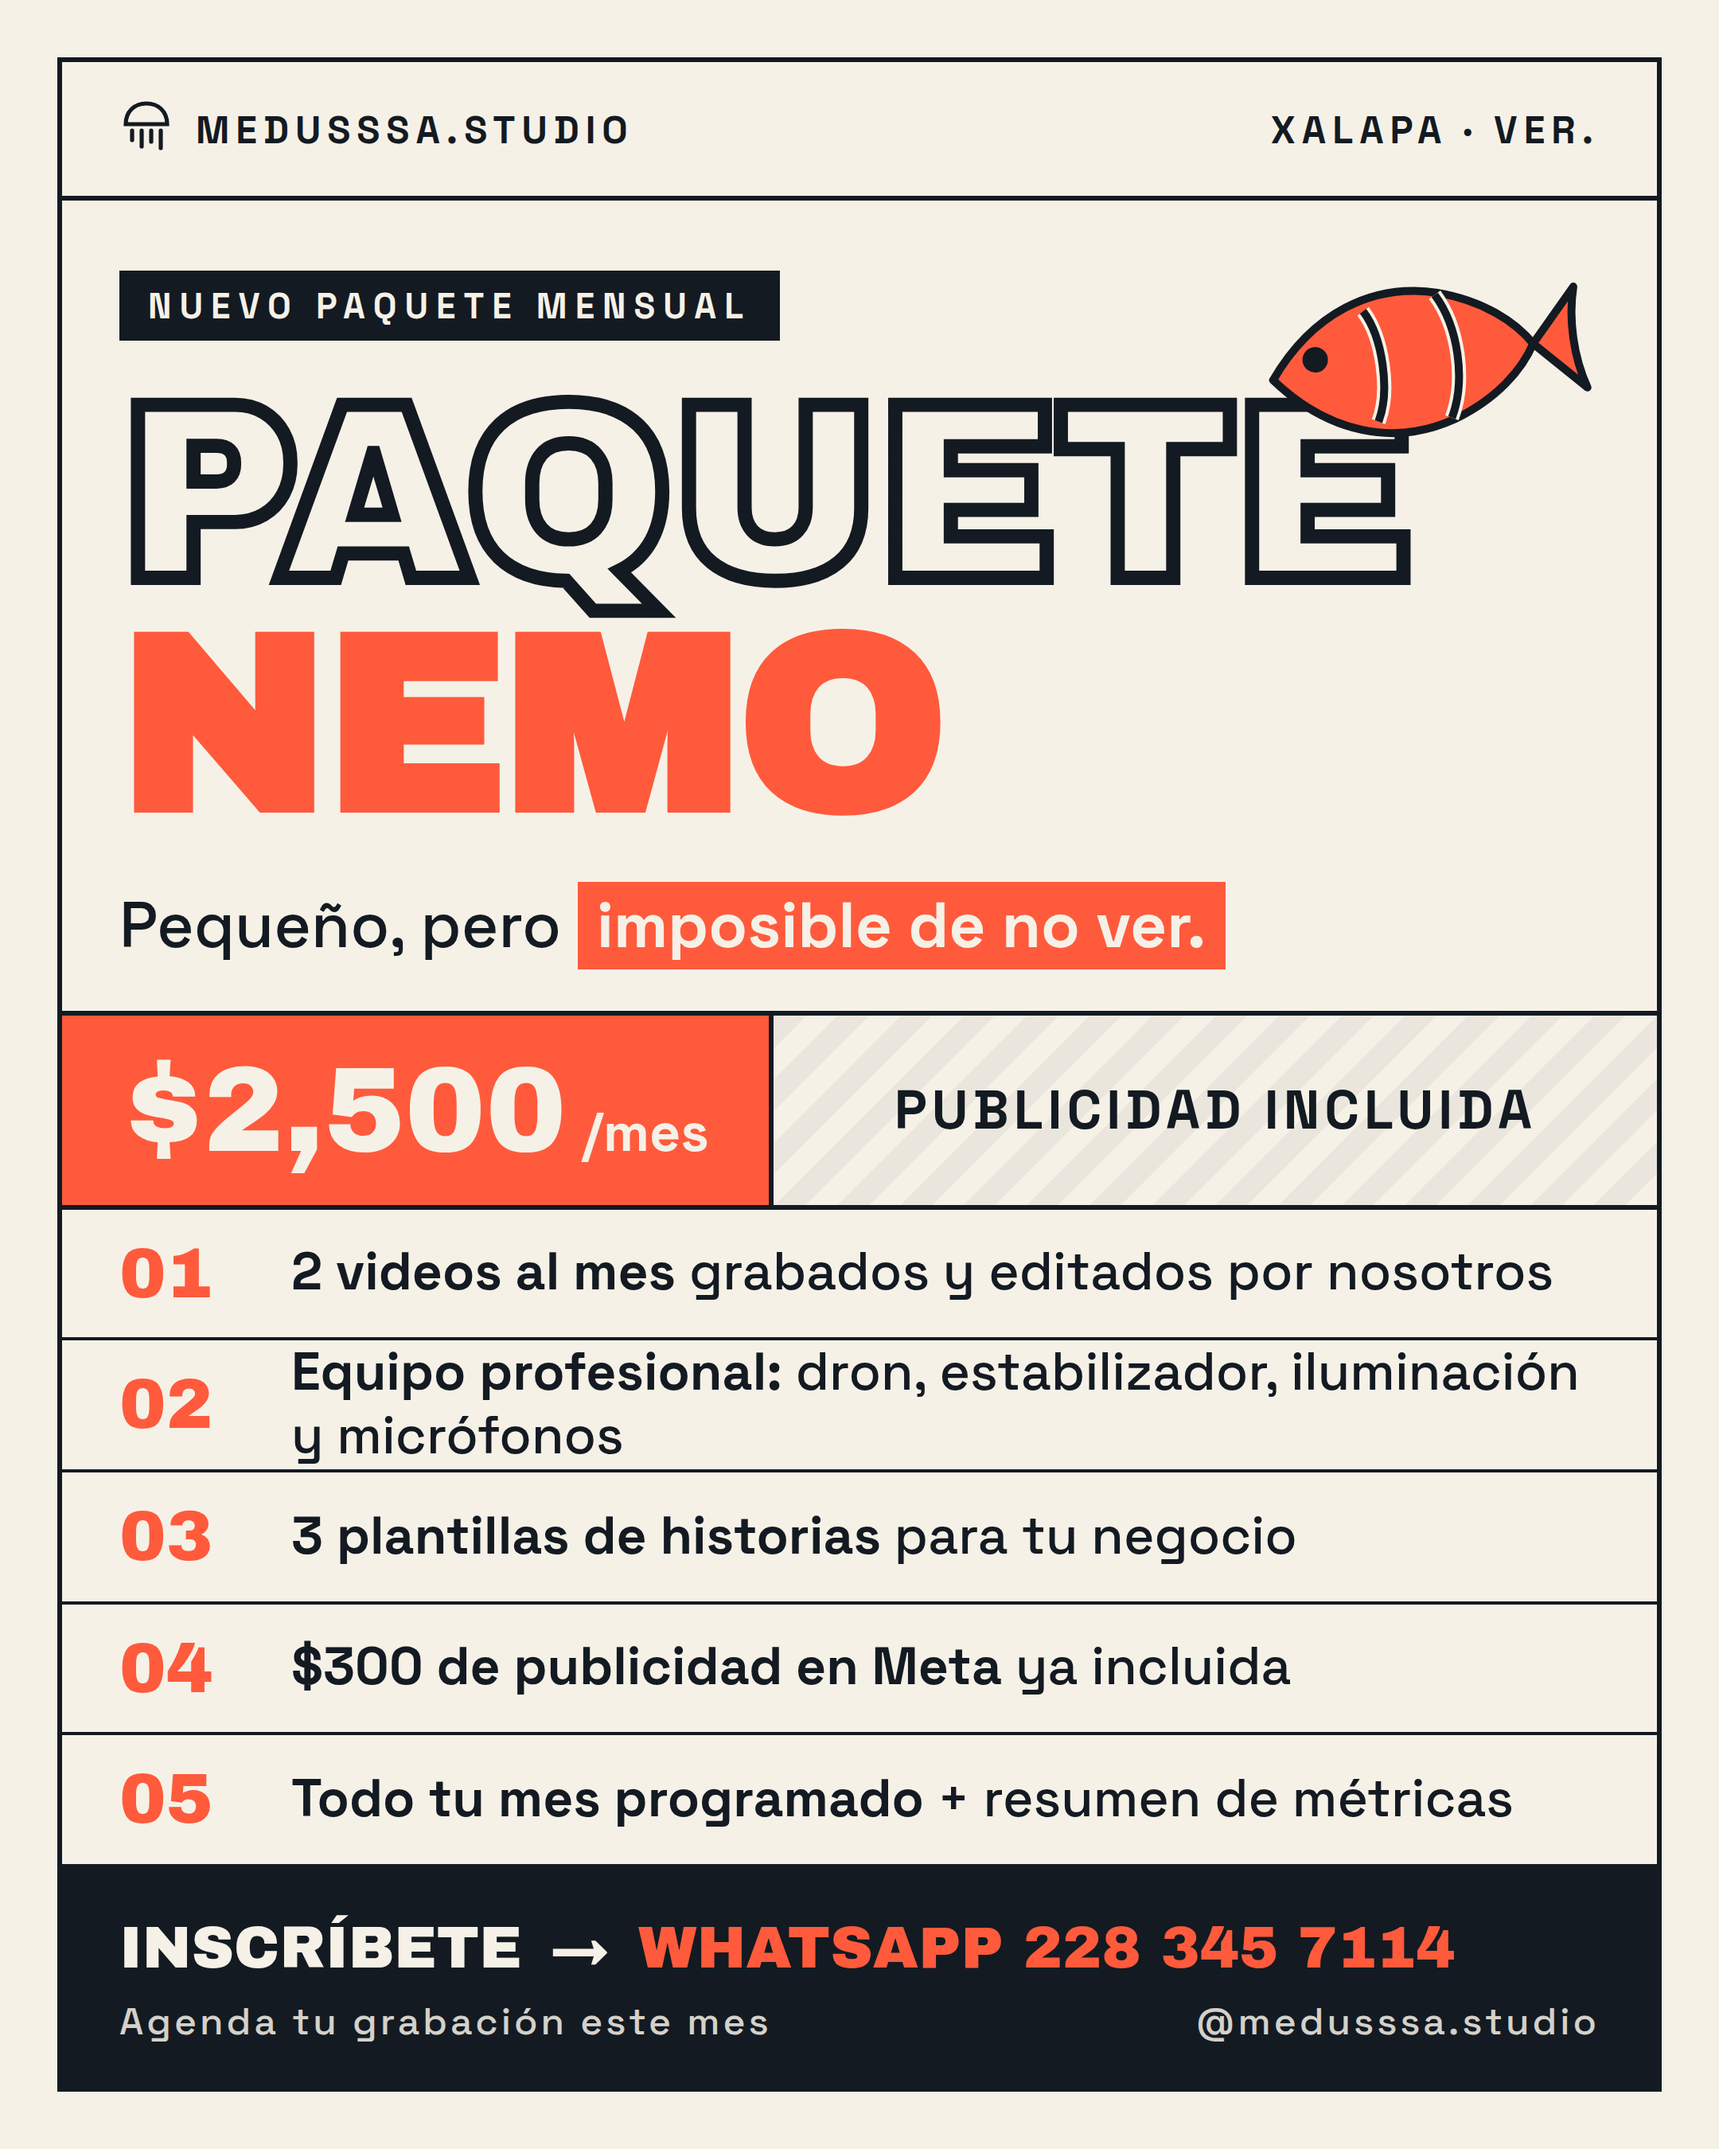
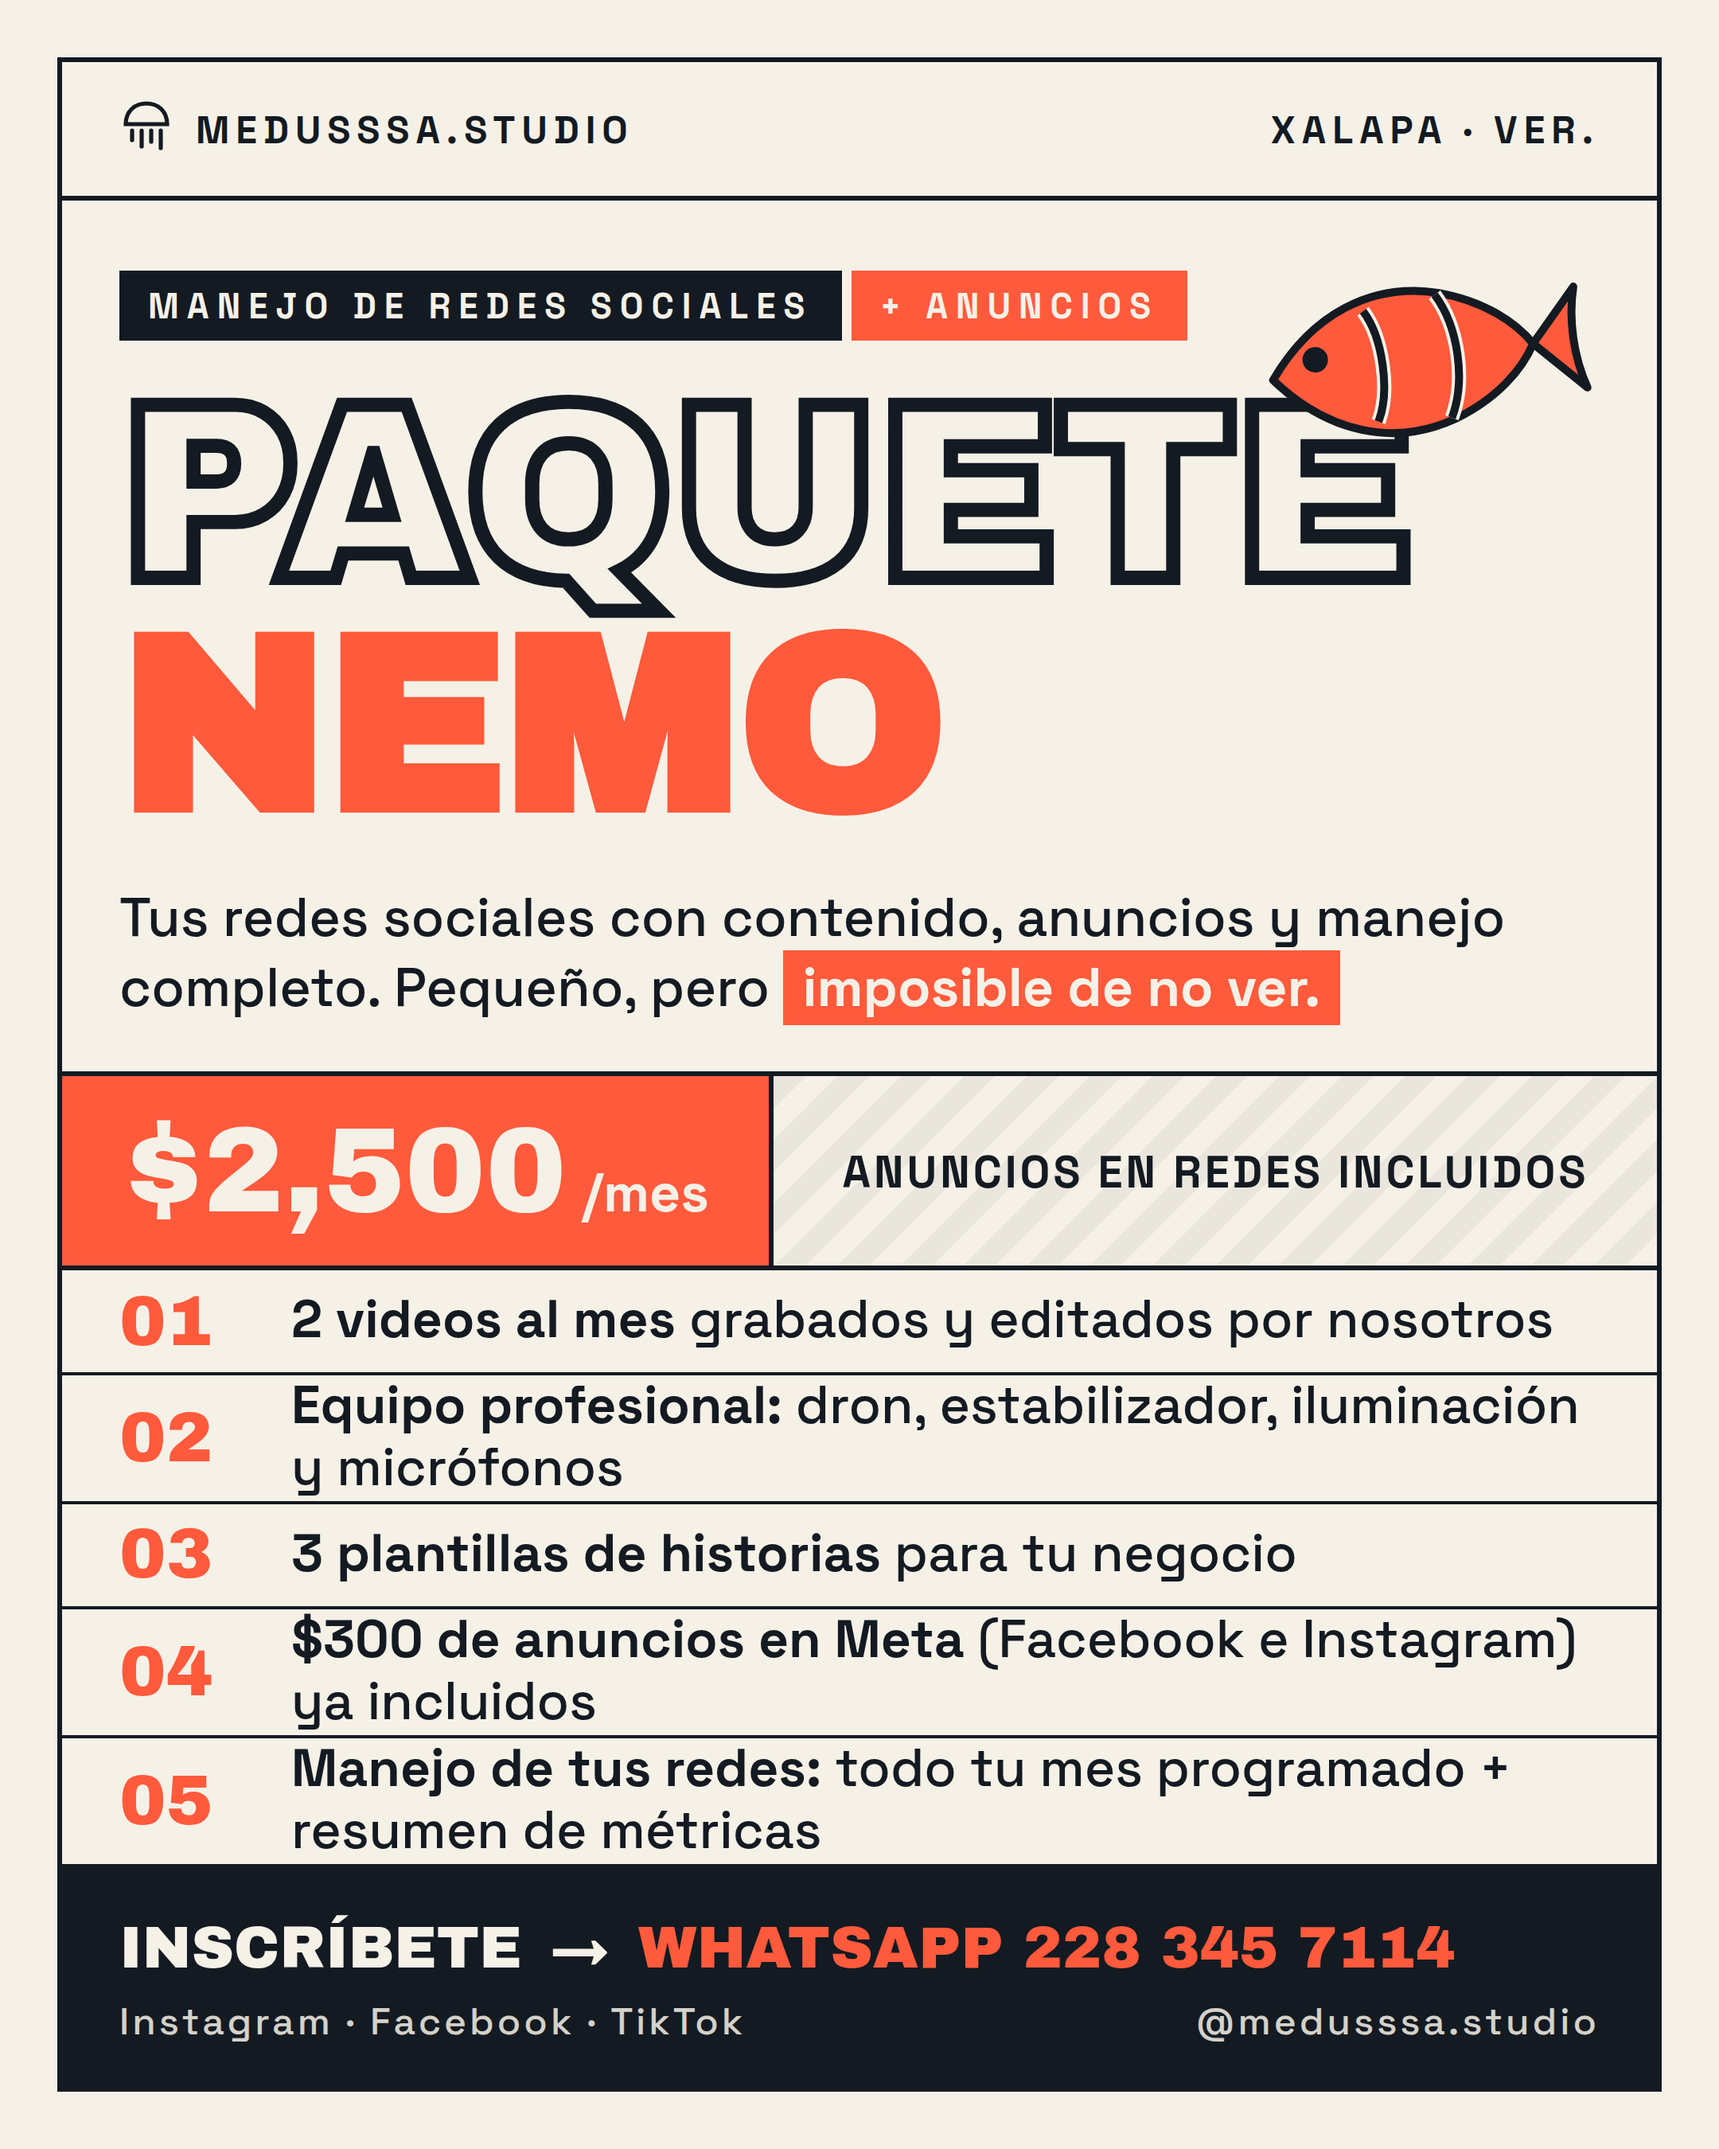
Aclarar en flyer Nemo v2 que el servicio es manejo de redes y anuncios
- Chips de encabezado: 'Manejo de redes sociales' + 'Anuncios'
- Tagline y beneficios reescritos con enfoque en redes y anuncios en Meta
- Pie con plataformas: Instagram, Facebook, TikTok

Claude-Session: https://claude.ai/code/session_01QdC4YuvtoR4ieuApUoGxdM

Changed region(s): [[0.031, 0.4044, 0.9616, 0.8711], [0.0931, 0.1244, 0.7134, 0.1556], [0.062, 0.9333, 0.4343, 0.9644]]

diff --git a/medusssa-studio/flyers/paquete-nemo-v2/flyer-nemo-v2.html b/medusssa-studio/flyers/paquete-nemo-v2/flyer-nemo-v2.html
@@ -82,6 +82,10 @@
     padding: 8px 18px;
     margin-bottom: 24px;
   }
+  .kicker.coral {
+    background: var(--coral);
+    margin-left: 6px;
+  }
   h1 {
     font-family: 'Archivo Black', sans-serif;
     font-size: 158px;
@@ -103,10 +107,11 @@
   }
 
   .tagline {
-    margin-top: 30px;
-    font-size: 40px;
+    margin-top: 26px;
+    font-size: 34px;
     font-weight: 500;
-    line-height: 1.15;
+    line-height: 1.3;
+    max-width: 940px;
   }
   .tagline mark {
     background: var(--coral);
@@ -145,9 +150,11 @@
     align-items: center;
     justify-content: center;
     font-weight: 700;
-    font-size: 34px;
+    font-size: 28px;
     text-transform: uppercase;
-    letter-spacing: 3px;
+    letter-spacing: 2px;
+    text-align: center;
+    padding: 0 20px;
     background: repeating-linear-gradient(
       -45deg,
       transparent 0 14px,
@@ -221,7 +228,7 @@
     </div>
 
     <div class="head">
-      <span class="kicker">Nuevo paquete mensual</span>
+      <span class="kicker">Manejo de redes sociales</span><span class="kicker coral">+ Anuncios</span>
       <h1>
         <span class="outline">Paquete</span><br>
         <span class="nemo">Nemo</span>
@@ -238,13 +245,14 @@
       </svg>
 
       <div class="tagline">
+        Tus redes sociales con contenido, anuncios y manejo completo.
         Pequeño, pero <mark>imposible de no ver.</mark>
       </div>
     </div>
 
     <div class="price">
       <div class="amount">$2,500 <small>/mes</small></div>
-      <div class="note">Publicidad incluida</div>
+      <div class="note">Anuncios en redes incluidos</div>
     </div>
 
     <div class="list">
@@ -262,11 +270,11 @@
       </div>
       <div class="item">
         <span class="num">04</span>
-        <span><b>$300 de publicidad en Meta</b> ya incluida</span>
+        <span><b>$300 de anuncios en Meta</b> (Facebook e Instagram) ya incluidos</span>
       </div>
       <div class="item">
         <span class="num">05</span>
-        <span><b>Todo tu mes programado</b> + resumen de métricas</span>
+        <span><b>Manejo de tus redes:</b> todo tu mes programado + resumen de métricas</span>
       </div>
     </div>
 
@@ -275,7 +283,7 @@
         Inscríbete <span>→</span> <span class="wa">WhatsApp 228 345 7114</span>
       </div>
       <div class="sub">
-        <span>Agenda tu grabación este mes</span>
+        <span>Instagram · Facebook · TikTok</span>
         <span>@medusssa.studio</span>
       </div>
     </div>
